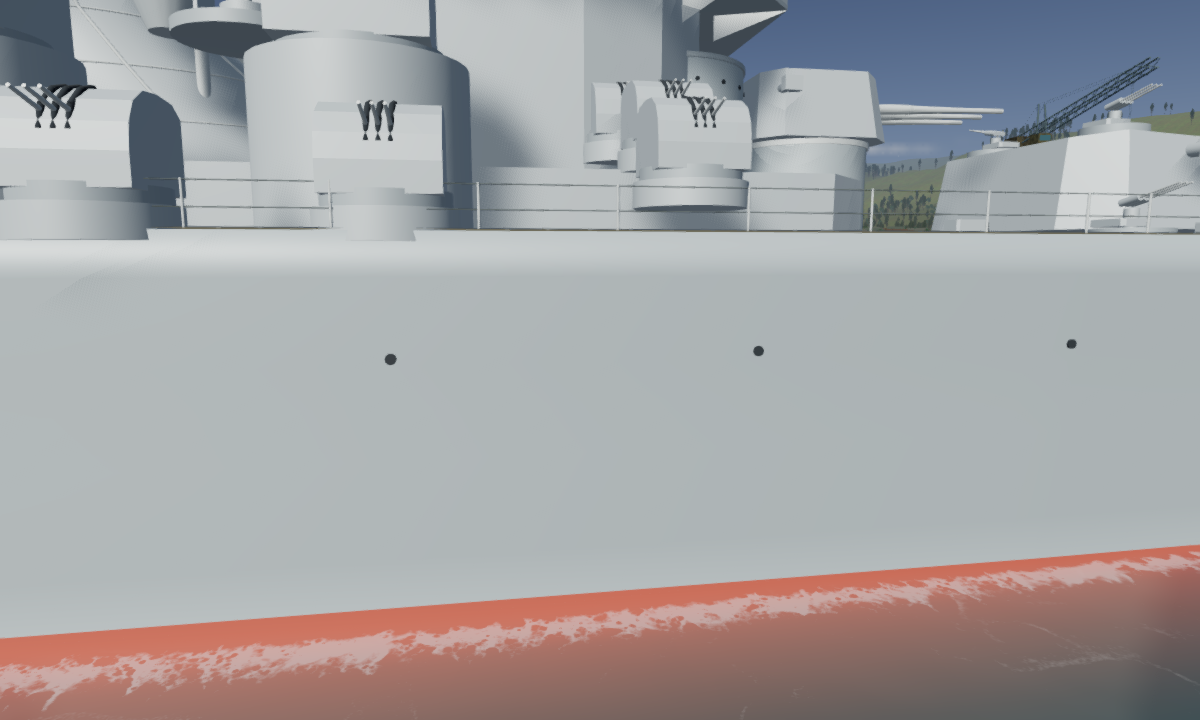
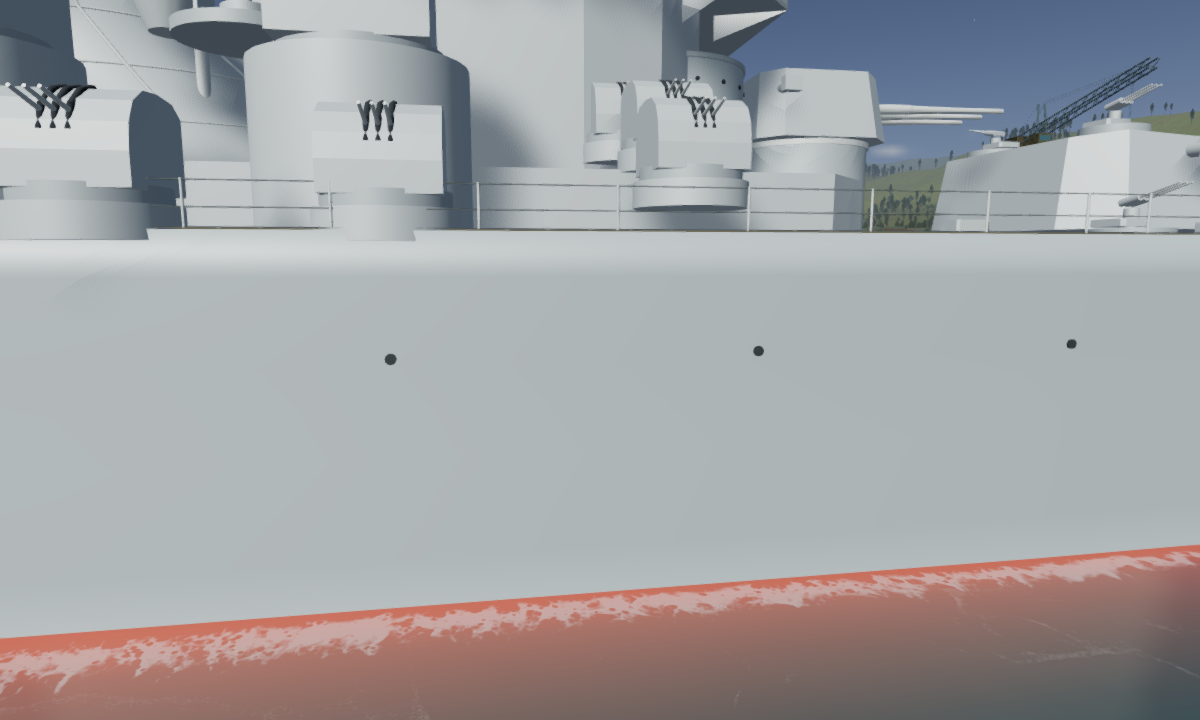
Record hull-shadow checks against latest master

Changed region(s): [[0.0, 0.7639, 1.0, 0.9778]]

diff --git a/assets/reviews/hull-lighting/README.md b/assets/reviews/hull-lighting/README.md
@@ -44,3 +44,7 @@ material or model changes may require reviewing its sample region.
 Validation: 101 simulation/ship/game/schematic tests pass; `bun run build` passes,
 including all four preset asset checks. WebGPU was checked; WebGL fallback was
 not exercised. No modeling recipe or generated ship asset changed.
+
+After integrating master at `45392d0`, all 122 tests and `bun run build` pass.
+The Medium WebGPU check was repeated with the merged renderer: RMS 0.149,
+with the refreshed capture retained above.
